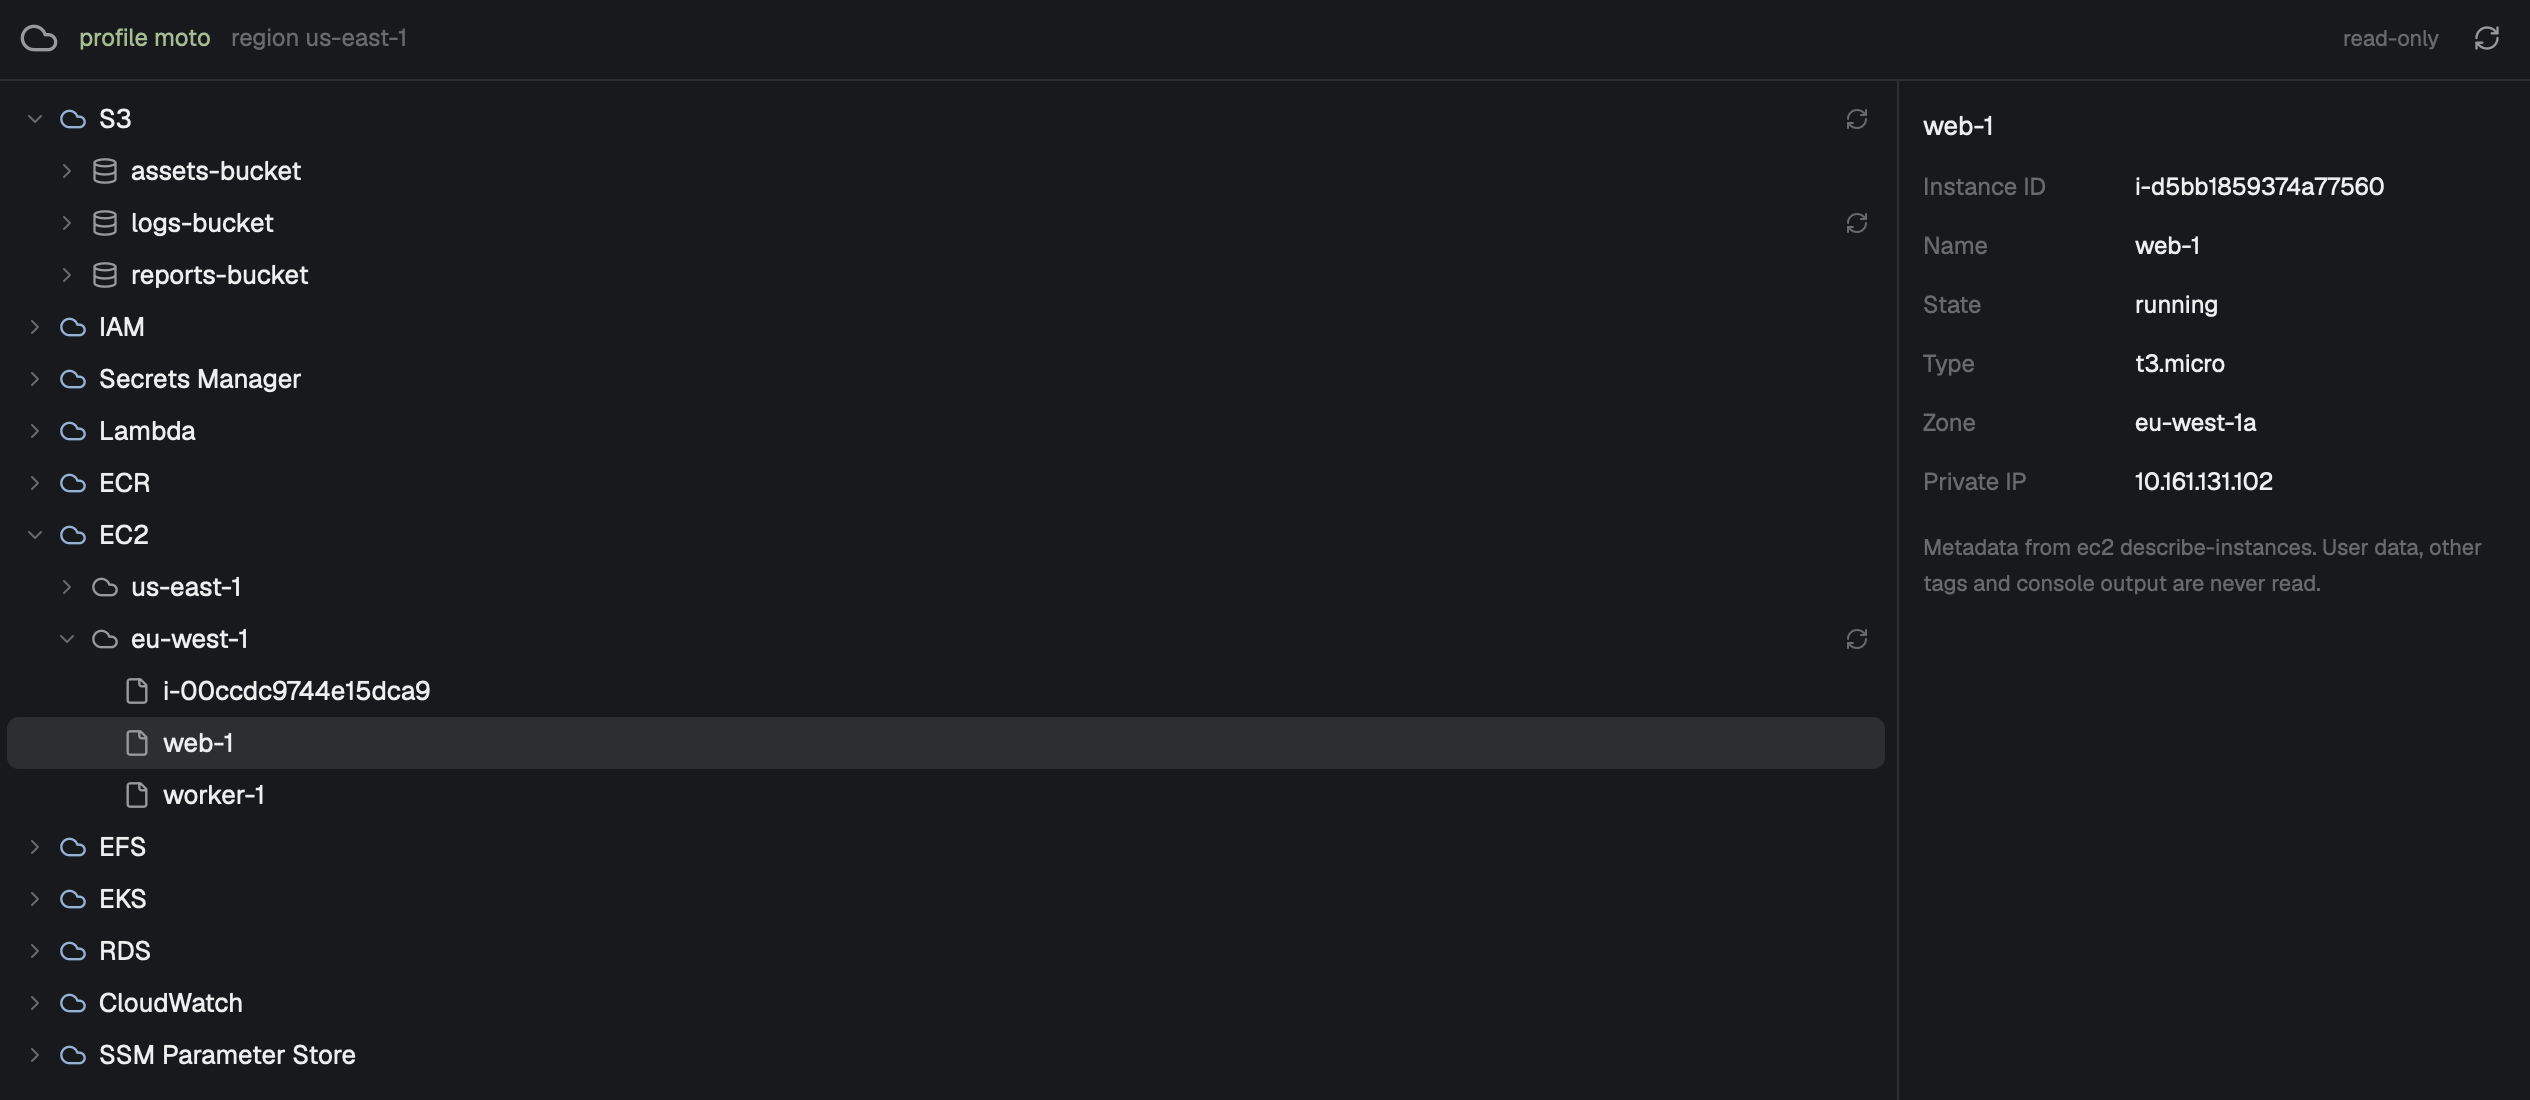
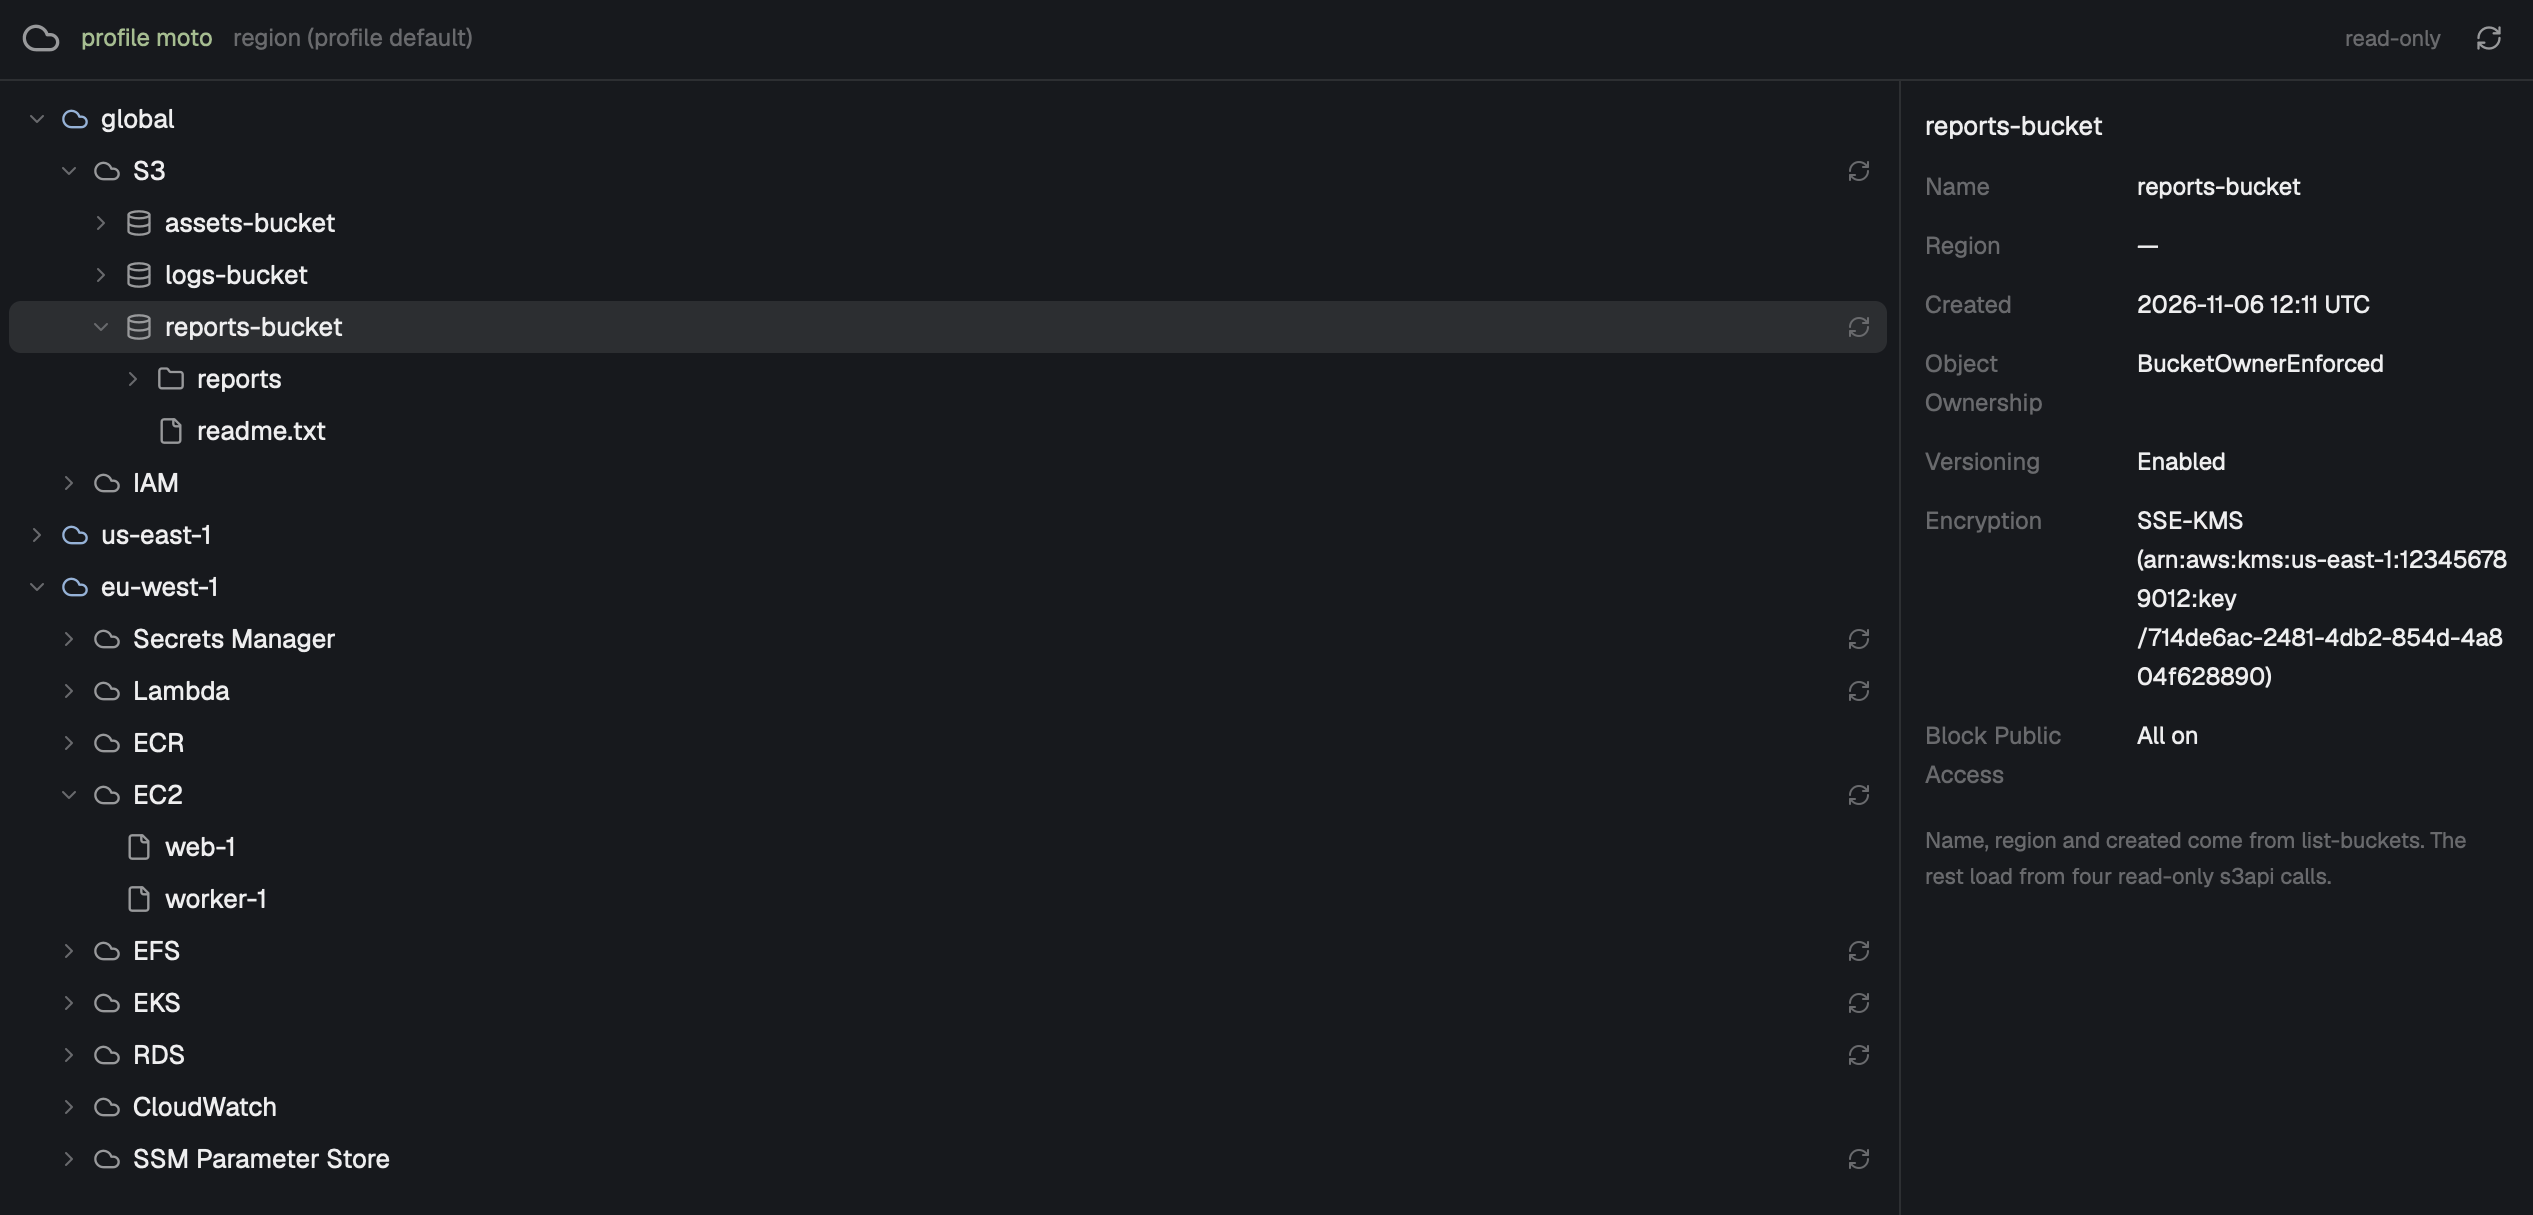
docs: update the preview image (#27)
* docs: update the preview image

* docs: remove version from readme

---------

diff --git a/README.md b/README.md
@@ -1,6 +1,6 @@
 # Herdr Browser for AWS
 
-Herdr Browser for AWS is a read-only viewer for AWS resources, built as a [Herdr](https://herdr.dev) mod. It shows S3 buckets, IAM resources, Secrets Manager secrets, Lambda functions, ECR repositories and images, EC2 instances, EFS file systems, EKS clusters, RDS DB instances, CloudWatch alarms and log groups, and SSM Parameter Store parameters as a lazy tree with a details pane. It is an early release (0.1.0): it has been tested against a mock AWS (moto), not yet against a real AWS account.
+Herdr Browser for AWS is a read-only viewer for AWS resources, built as a [Herdr](https://herdr.dev) mod. It shows S3 buckets, IAM resources, Secrets Manager secrets, Lambda functions, ECR repositories and images, EC2 instances, EFS file systems, EKS clusters, RDS DB instances, CloudWatch alarms and log groups, and SSM Parameter Store parameters as a lazy tree with a details pane. 
 
 ![Herdr Browser for AWS](preview.png)
 

diff --git a/RECIPE.md b/RECIPE.md
@@ -8,7 +8,7 @@ A read-only browser for your AWS account, in a Herdr tab. A header shows the pro
 
 The mod is one pane, 900 by 600 at first, in the theme's background and foreground colors. Text is 13px.
 
-`preview.png` shows the final build: the header with the profile, the region and the `read-only` label, the tree with S3 and EC2 expanded (EC2 is grouped per region), and the details pane for one EC2 instance.
+`preview.png` shows the final build: the header with the profile, the region and the `read-only` label, the tree with a `global` folder (S3 expanded, IAM closed) and one folder per region (`eu-west-1` open with EC2 expanded), and the details pane for one S3 bucket.
 
 - **Header, 42px high**, with a bottom border. Left to right:
   - A neutral cloud icon (`cloud.svg`, 20px, muted color).
